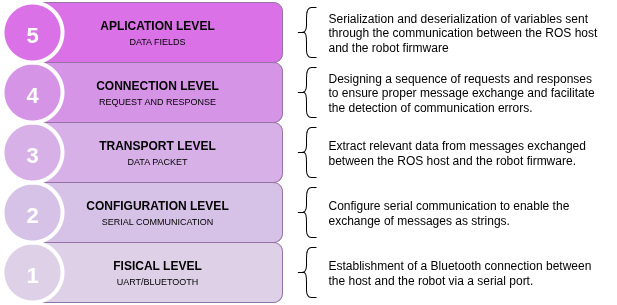
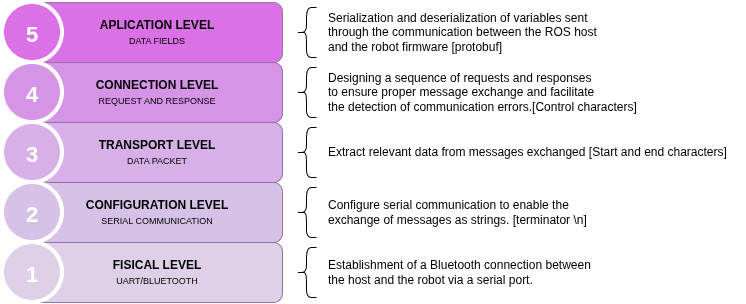
Improve description comments, Update protocol image, add EoF line

diff --git a/src/task_communication.c b/src/task_communication.c
@@ -99,22 +99,21 @@ static void CommunicationTask(void *pvParameters) {
     wheels_pb_msg.side[LEFT].has_command_velocity = true;
     wheels_pb_msg.side[LEFT].command_velocity = 1.5f;  /* Placeholder for command velocity */
     wheels_pb_msg.side[LEFT].has_status_velocity = true;
-    wheels_pb_msg.side[LEFT].status_velocity = wheels_data.left.status_velocity;   /* Placeholder for status velocity */
+    wheels_pb_msg.side[LEFT].status_velocity = wheels_data.left.status_velocity;
     wheels_pb_msg.side[LEFT].has_status_position = true;
-    wheels_pb_msg.side[LEFT].status_position = wheels_data.left.status_position;    /* Placeholder for status position */
+    wheels_pb_msg.side[LEFT].status_position = wheels_data.left.status_position;
     wheels_pb_msg.side[RIGHT].has_command_velocity = true;
     wheels_pb_msg.side[RIGHT].command_velocity = 1.5f;  /* Placeholder for command velocity */
     wheels_pb_msg.side[RIGHT].has_status_velocity = true;
-    wheels_pb_msg.side[RIGHT].status_velocity = wheels_data.right.status_velocity;   /* Placeholder for status velocity */
+    wheels_pb_msg.side[RIGHT].status_velocity = wheels_data.right.status_velocity;
     wheels_pb_msg.side[RIGHT].has_status_position = true;
-    wheels_pb_msg.side[RIGHT].status_position = wheels_data.right.status_position;    /* Placeholder for status position */
+    wheels_pb_msg.side[RIGHT].status_position = wheels_data.right.status_position;
 
     /* Receive message from serial and process requests */
     bluetooth.Read(rx_msg);
 
     /* Check if the receive buffer is not empty */
     if (rx_msg[0] != '\0' && strlen(rx_msg) > 0) {
-        
         /* Check for valid message format [X...] */
         if (rx_msg[0] == '[' && strlen(rx_msg) > 2) {
             char command = rx_msg[1];  /* Extract command after '[' */

diff --git a/include/littlebot_firmware/serial_wrapper.h b/include/littlebot_firmware/serial_wrapper.h
@@ -28,8 +28,10 @@
 
 #include "littlebot_drivers/uart_port.h"
 
+// forward declaration of SerialWrapper structure
 typedef struct SerialWrapperClass SerialWrapper;
 
+// function pointer types
 typedef int32_t (*ptfRead)(char *msg);
 typedef void (*ptfWrite)(char *msg, size_t length);
 typedef void (*ptfPrintf)(char *msg);
